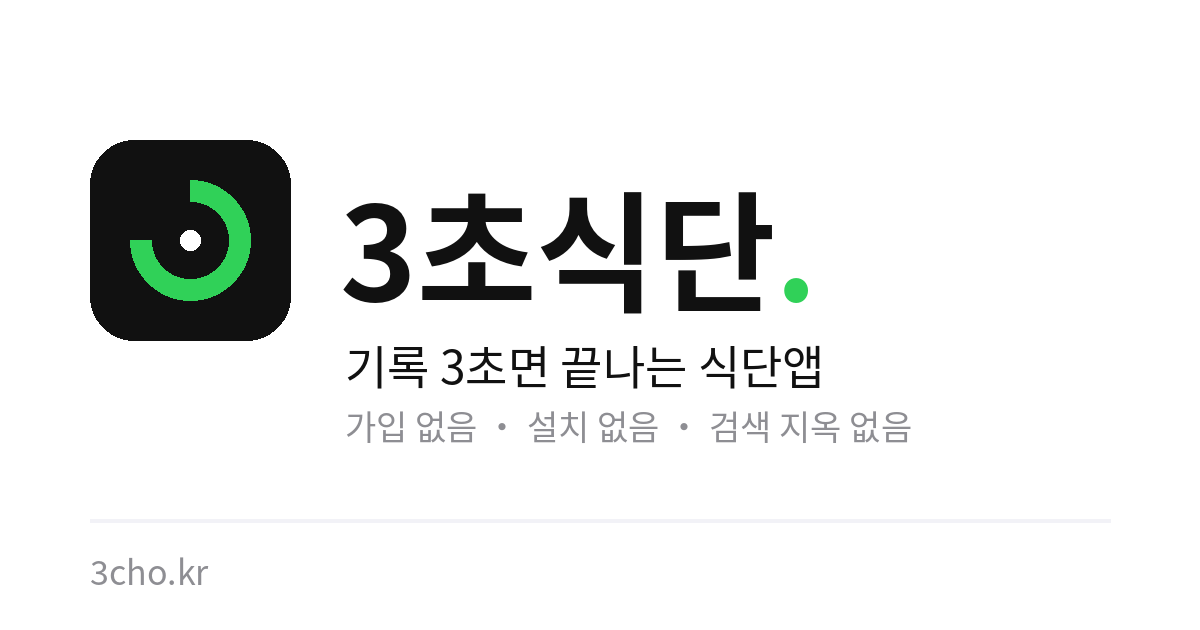
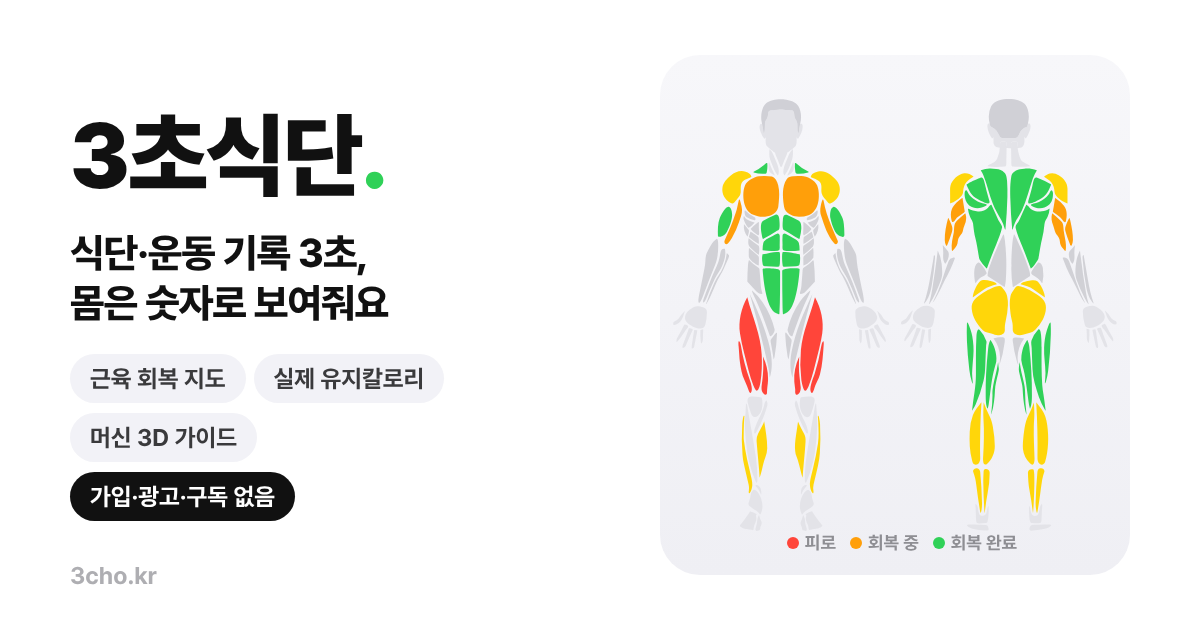
링크 미리보기 이미지 4종 · v104

diff --git a/routines.html b/routines.html
@@ -8,7 +8,7 @@
 <link rel="canonical" href="https://3cho.kr/routines.html">
 <meta property="og:title" content="헬스 루틴 13가지 — 3초식단">
 <meta property="og:description" content="3분할·PPL·아놀드·PHUL·여성 힙업까지. 종목과 순서를 그대로 앱에 가져가세요.">
-<meta property="og:image" content="https://3cho.kr/og.png">
+<meta property="og:image" content="https://3cho.kr/og-routines.png">
 <link rel="icon" href="icon-192.png">
 <script>(function(){try{var t=(JSON.parse(localStorage.getItem('foodspot')||'{}').theme)||'light';if(t==='dark'||(t==='system'&&matchMedia('(prefers-color-scheme: dark)').matches))document.documentElement.classList.add('dark');}catch(e){}})();</script>
 <script type="application/ld+json">{"@context":"https://schema.org","@type":"ItemList","name":"헬스 루틴 라이브러리","itemListElement":[{"@type":"ListItem","position":1,"name":"머신 입문 전신 A·B","url":"https://3cho.kr/routines.html#machine_start"},{"@type":"ListItem","position":2,"name":"바쁜 직장인 주 2회 전신","url":"https://3cho.kr/routines.html#busy2"},{"@type":"ListItem","position":3,"name":"무분할 주 3회","url":"https://3cho.kr/routines.html#full_3"},{"@type":"ListItem","position":4,"name":"3분할 (가슴삼두·등이두·하체어깨)","url":"https://3cho.kr/routines.html#split3"},{"@type":"ListItem","position":5,"name":"상하체 2분할 주 4회","url":"https://3cho.kr/routines.html#upper_lower"},{"@type":"ListItem","position":6,"name":"여성 상하체 4일","url":"https://3cho.kr/routines.html#f_ul4"},{"@type":"ListItem","position":7,"name":"여성 힙업 주 3회","url":"https://3cho.kr/routines.html#f_glute3"},{"@type":"ListItem","position":8,"name":"밀기·당기기·하체 (PPL)","url":"https://3cho.kr/routines.html#ppl"},{"@type":"ListItem","position":9,"name":"아놀드 분할 (가슴등·어깨팔·하체)","url":"https://3cho.kr/routines.html#arnold"},{"@type":"ListItem","position":10,"name":"4분할 (가슴·등·어깨팔·하체)","url":"https://3cho.kr/routines.html#split4"},{"@type":"ListItem","position":11,"name":"파워빌딩 PHUL 4일","url":"https://3cho.kr/routines.html#phul"},{"@type":"ListItem","position":12,"name":"여성 모래시계 5일","url":"https://3cho.kr/routines.html#f_hourglass"},{"@type":"ListItem","position":13,"name":"5일 분할","url":"https://3cho.kr/routines.html#split5_now"}]}</script>

diff --git a/foodspot.html b/foodspot.html
@@ -18,7 +18,7 @@
 <title>3초식단 — 탄단지 3초</title>
 <meta name="description" content="바디빌딩·다이어트 식단을 3초 기록. 단백질·탄수·지방, 체지방, 감량·증량 목표. 닭가슴살부터 한식까지 식약처 DB 3.7만종.">
 <meta property="og:title" content="3초식단 — 탄단지 3초">
-<meta property="og:description" content="단백질 먼저. 감량·증량 공통. 탄단지만 적으면 됩니다.">
+<meta property="og:description" content="식단·운동 기록 3초. 근육 회복 지도·실제 유지칼로리·머신 3D 가이드. 가입·광고·구독 없음.">
 <meta property="og:image" content="https://3cho.kr/og.png">
 <meta property="og:url" content="https://3cho.kr">
 <meta property="og:type" content="website">
@@ -28,7 +28,7 @@
 <meta property="og:image:height" content="630">
 <meta name="twitter:card" content="summary_large_image">
 <meta name="twitter:title" content="3초식단 — 탄단지 3초">
-<meta name="twitter:description" content="바디빌딩·다이어트 식단. 단백질부터 3초 기록.">
+<meta name="twitter:description" content="식단·운동 기록 3초. 근육 회복 지도·머신 3D 가이드. 가입 없음.">
 <meta name="twitter:image" content="https://3cho.kr/og.png">
 <link rel="canonical" href="https://3cho.kr/">
 <meta name="keywords" content="바디빌딩식단,다이어트식단,탄단지,단백질기록,식단기록,칼로리계산기,감량,증량,닭가슴살,그릭요거트,체지방,BMR,가입없이">

diff --git a/index.html b/index.html
@@ -18,7 +18,7 @@
 <title>3초식단 — 탄단지 3초</title>
 <meta name="description" content="바디빌딩·다이어트 식단을 3초 기록. 단백질·탄수·지방, 체지방, 감량·증량 목표. 닭가슴살부터 한식까지 식약처 DB 3.7만종.">
 <meta property="og:title" content="3초식단 — 탄단지 3초">
-<meta property="og:description" content="단백질 먼저. 감량·증량 공통. 탄단지만 적으면 됩니다.">
+<meta property="og:description" content="식단·운동 기록 3초. 근육 회복 지도·실제 유지칼로리·머신 3D 가이드. 가입·광고·구독 없음.">
 <meta property="og:image" content="https://3cho.kr/og.png">
 <meta property="og:url" content="https://3cho.kr">
 <meta property="og:type" content="website">
@@ -28,7 +28,7 @@
 <meta property="og:image:height" content="630">
 <meta name="twitter:card" content="summary_large_image">
 <meta name="twitter:title" content="3초식단 — 탄단지 3초">
-<meta name="twitter:description" content="바디빌딩·다이어트 식단. 단백질부터 3초 기록.">
+<meta name="twitter:description" content="식단·운동 기록 3초. 근육 회복 지도·머신 3D 가이드. 가입 없음.">
 <meta name="twitter:image" content="https://3cho.kr/og.png">
 <link rel="canonical" href="https://3cho.kr/">
 <meta name="keywords" content="바디빌딩식단,다이어트식단,탄단지,단백질기록,식단기록,칼로리계산기,감량,증량,닭가슴살,그릭요거트,체지방,BMR,가입없이">

diff --git a/move.html b/move.html
@@ -8,7 +8,7 @@
 <link rel="canonical" href="https://3cho.kr/move.html">
 <meta property="og:title" content="머신 사용법 — 3초식단">
 <meta property="og:description" content="세팅·근육·흔한 실수를 머신마다 한 장으로. 동작 애니메이션과 3D까지.">
-<meta property="og:image" content="https://3cho.kr/og.png">
+<meta property="og:image" content="https://3cho.kr/og-move.png">
 <link rel="icon" href="icon-192.png">
 <script>
 (function(){try{var t=(JSON.parse(localStorage.getItem('foodspot')||'{}').theme)||'light';if(t==='dark'||(t==='system'&&matchMedia('(prefers-color-scheme: dark)').matches))document.documentElement.classList.add('dark');}catch(e){}})();

diff --git a/machines.html b/machines.html
@@ -8,7 +8,7 @@
 <link rel="canonical" href="https://3cho.kr/machines.html">
 <meta property="og:title" content="헬스장 머신 브랜드 사전 — 3초식단">
 <meta property="og:description" content="해머스트렝스·파나타·짐80·사이벡스… 머신 브랜드 25곳의 역사·특징·머신 909종.">
-<meta property="og:image" content="https://3cho.kr/og.png">
+<meta property="og:image" content="https://3cho.kr/og-machines.png">
 <meta name="twitter:card" content="summary_large_image">
 <link rel="icon" href="icon-192.png">
 <script>

diff --git a/sw.js b/sw.js
@@ -1,5 +1,5 @@
 // 3초식단 Service Worker — 오프라인 + 데이터 보존(iOS 설치 PWA)
-const CACHE = 'sikdan-v103';
+const CACHE = 'sikdan-v104';
 
 self.addEventListener('install', e => {
   e.waitUntil(
